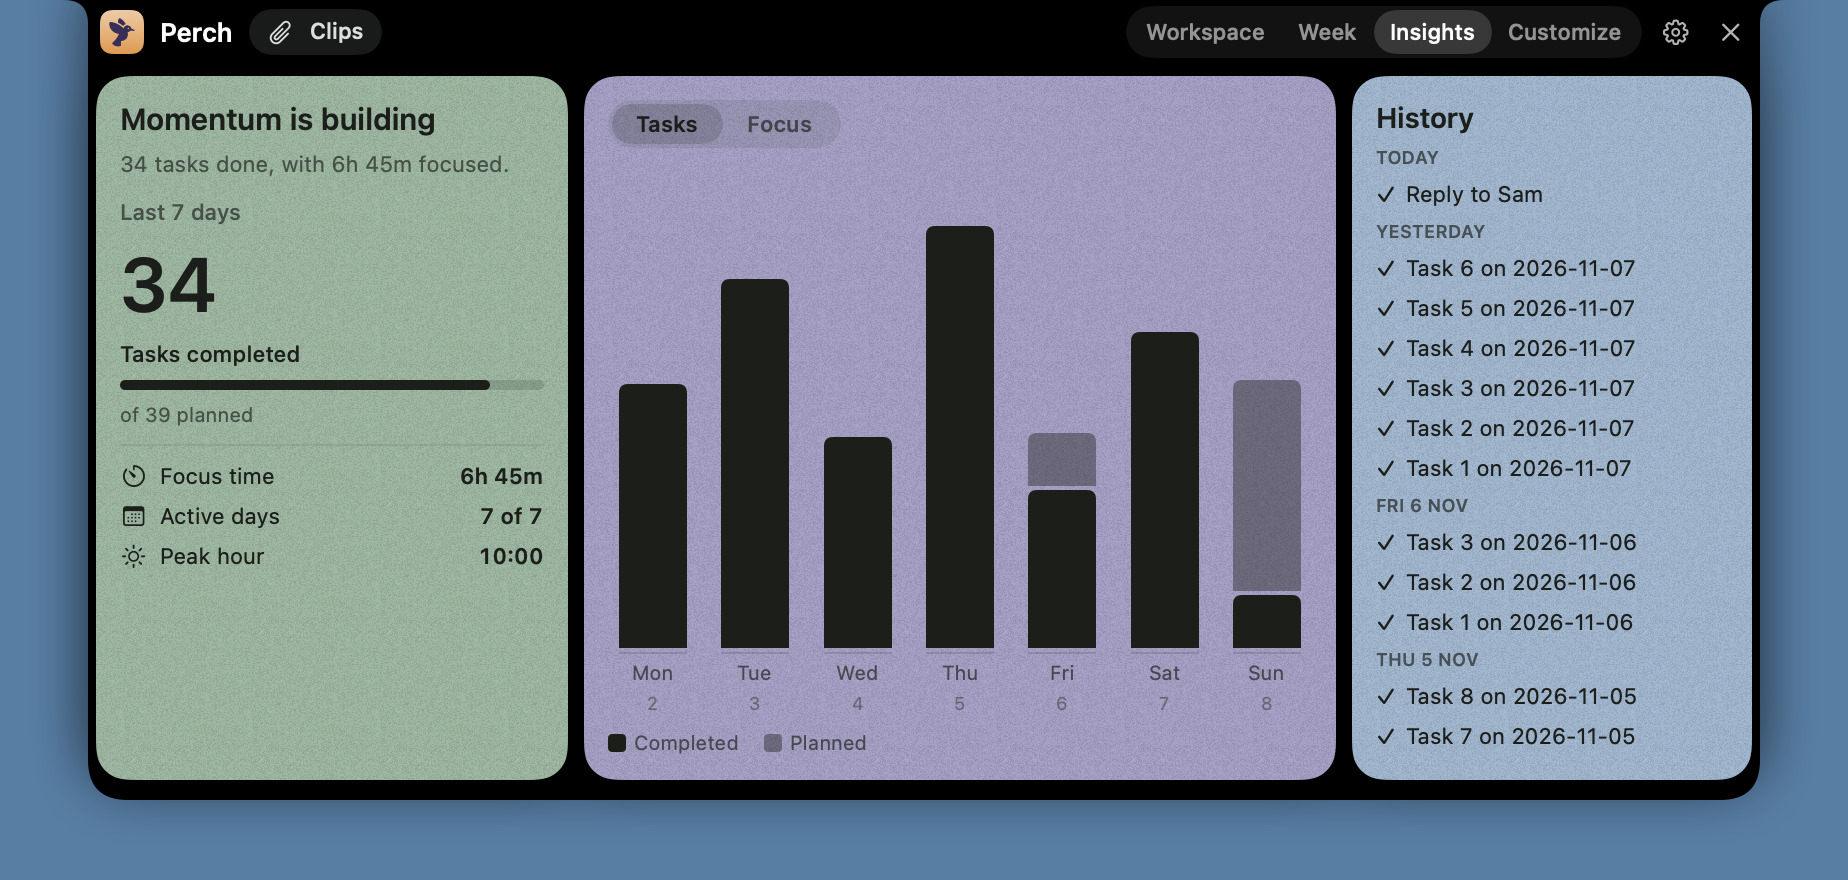
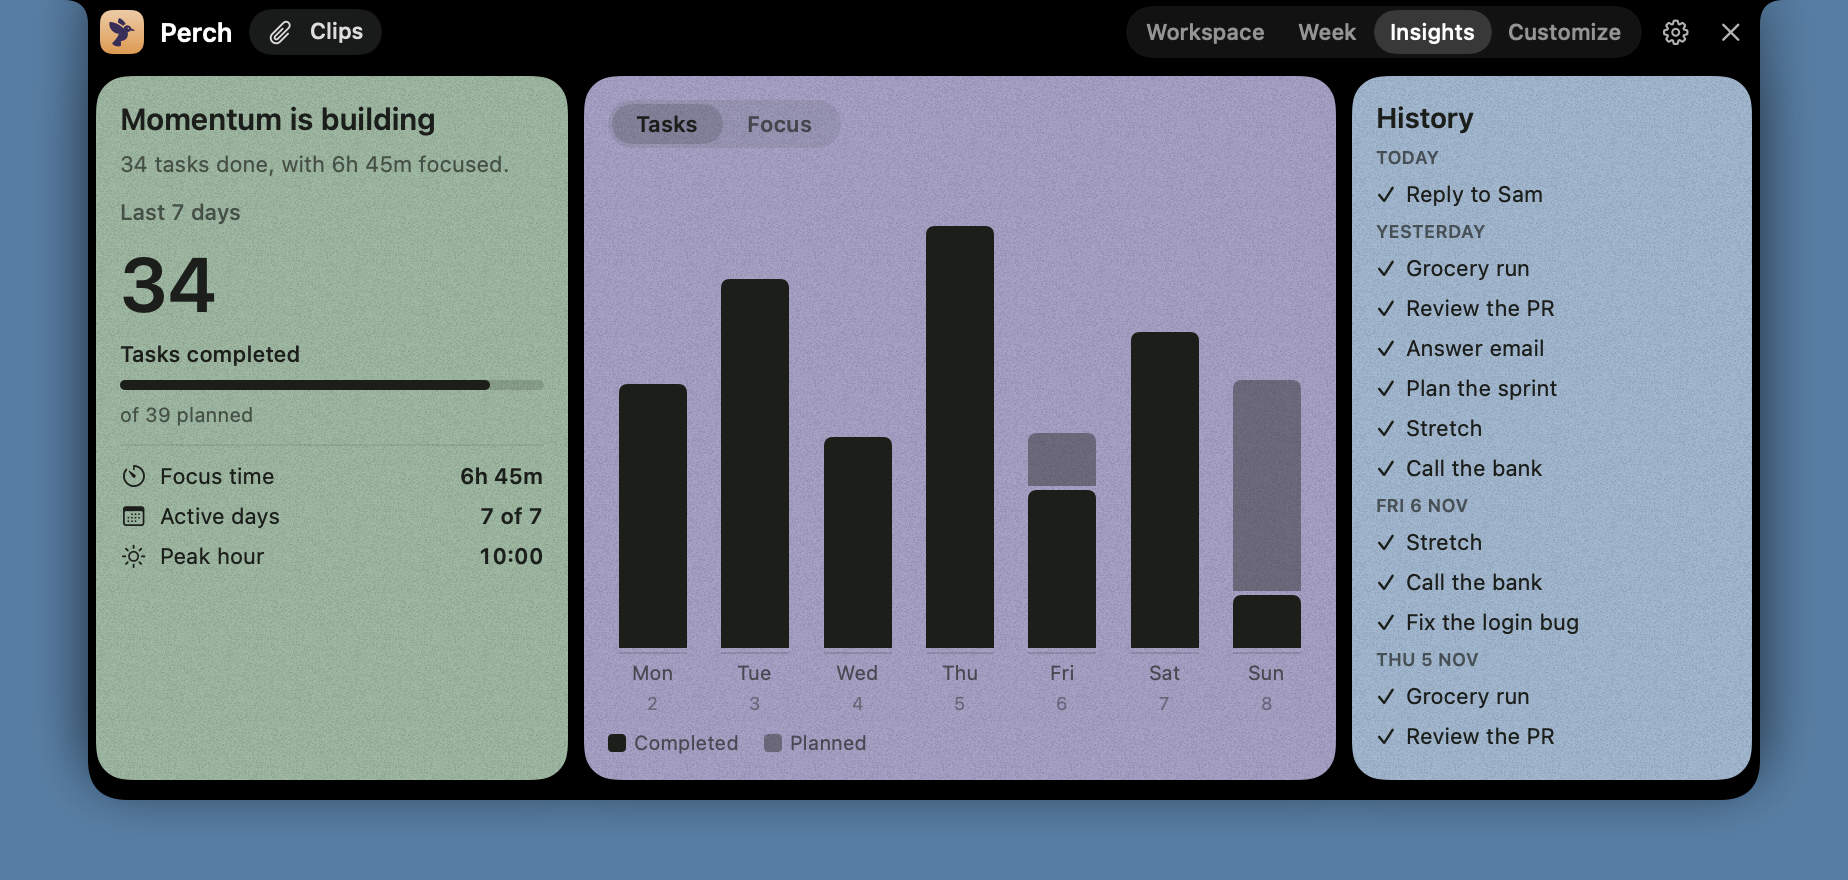
Correct the README's privacy and permission claims, and give the sample history real task names
The permission list was missing Notifications, and the privacy section now says when data
leaves the Mac (Reminders sync, an AI agent) and that Clips keeps the last 40 copied items
on disk. Option-N, the Xcode requirement and notchless Macs are described as the code
behaves. The Insights screenshot showed placeholder tasks.

diff --git a/Sources/Perch/Snapshot.swift b/Sources/Perch/Snapshot.swift
@@ -86,10 +86,11 @@ enum Snapshot {
 
         // Seven days of history so Insights has something to show.
         let counts = [(4, 5), (6, 7), (2, 4), (7, 8), (3, 3), (5, 6)]
+        let titles = ["Answer email", "Review the PR", "Grocery run", "Draft the blog post", "Fix the login bug", "Call the bank", "Stretch", "Plan the sprint"]
         for (offset, count) in counts.enumerated() {
             let day = Day.adding(offset - 6, to: today, calendar: cal)
             for i in 0..<count.1 {
-                let task = ws.add("Task \(i + 1) on \(day)", defaultDay: day)!
+                let task = ws.add(titles[(offset + i) % titles.count], defaultDay: day)!
                 if i < count.0 {
                     ws.update(task.id) { $0.completedAt = Day.at(day, hour: 10 + i, minute: 0, calendar: cal) }
                 } else {

diff --git a/README.md b/README.md
@@ -1,6 +1,6 @@
 # Perch
 
-Tasks, notes, focus timers, calendar events and recent clips, in your Mac's notch. Hover over the notch or press Option-N and it opens. Move away and it closes.
+Tasks, notes, focus timers, calendar events and recent clips, in your Mac's notch. Hover over the notch and it opens, and it closes when you move away. Option-N opens it from the keyboard, and then it stays until you press Option-N or Esc, or click elsewhere.
 
 ![Perch open under the notch, with today's tasks, a focus timer, the notepad and today's events](docs/images/workspace.png)
 
@@ -10,14 +10,14 @@ Tasks, notes, focus timers, calendar events and recent clips, in your Mac's notc
 - **The week at a glance.** The Inbox sits beside the next 14 days, and tasks drag between them.
 - **A notepad for each day.** Command-Return turns the current line into a task.
 - **Focus timers** for a task or on their own, counting down or up. While the panel is closed, the time stays beside the notch.
-- **Reminders that open in the notch,** with a snooze and a Done button.
+- **Reminders that open in the notch,** with a snooze and a Done button. They still ring through macOS notifications while Perch is quit.
 - **Today's calendar events**, read-only.
-- **Clips:** recent copied text, images and files, ready to drag into another app. Screenshots and screen recordings too, if you turn them on. Anything a password manager marks as private is never kept.
+- **Clips:** your recent copied text, images and files, ready to drag into another app. Screenshots and screen recordings too, if you turn them on. Anything a password manager marks as private is never kept.
 - **Insights:** what you finished, how long you focused and your peak hour.
-- **Two-way Apple Reminders sync**, off by default, so your tasks reach your iPhone and Apple Watch.
-- **AI agents can use it.** Claude Code, the Claude app and Cursor can add and update tasks, set reminders, read and write notes, run the focus timer and read your insights.
-- **Suggestions from Apple Intelligence.** On macOS 26 with Apple Intelligence on, a new task gets a priority and project from the on-device model.
-- **External monitors get a drawn notch,** and Macs without a notch open Perch below the menu bar.
+- **Two-way Apple Reminders sync**, off by default, so your tasks reach your iPhone and Apple Watch. It hasn't been tried against real Reminders yet.
+- **AI agents can use it.** Claude Code, the Claude app and Cursor can read, add, update, complete and delete tasks, set reminders, read and write notes, run the focus timer and read your insights.
+- **Apple Intelligence fills in the gaps.** On macOS 26 with Apple Intelligence on, a new task gets a priority and project you didn't set, from the on-device model.
+- **External monitors get a drawn notch,** which you can turn off. On a MacBook or iMac without a notch, push the pointer to the middle of the top edge and Perch opens below the menu bar.
 
 | Week | Insights |
 | --- | --- |
@@ -30,11 +30,11 @@ While the panel is closed, a reminder that's due and a running timer show up aro
 
 ## Status
 
-Perch is young. Everything above is built, but much of it has only run with sample data so far, not yet in daily use on a real Mac. [product.md](product.md) says what's confirmed working and what isn't, and the pinned [feature checklist](https://github.com/pitis/perch/issues/1) tracks the rest. There's no download yet, so you build it from source.
+Perch is young. Everything above is built, but much of it hasn't been tried in the real app yet. [product.md](product.md) says what's confirmed working and what isn't, and the pinned [feature checklist](https://github.com/pitis/perch/issues/1) tracks the rest. There's no download yet, so you build it from source.
 
 ## Build and install
 
-You need macOS 14 or later on Apple silicon, and Xcode 16 or later.
+You need macOS 14 or later on Apple silicon, and Xcode. Xcode 16 should be enough, though it's only been built with Xcode 27 so far, and the Apple Intelligence suggestions need Xcode 26 or later.
 
 ```sh
 git clone https://github.com/pitis/perch.git
@@ -42,26 +42,29 @@ cd perch
 ./scripts/build.sh --install
 ```
 
-That builds `Perch.app`, puts it in `/Applications` and launches it. It has no Dock icon: it lives in the notch and the menu bar.
+That builds `Perch.app`, puts it in `/Applications` and launches it. It has no Dock icon: it lives in the notch and the menu bar. It also takes over Option-N, so on a US keyboard that shortcut no longer types ñ.
 
-The build is signed with the first Apple Development certificate in your keychain. Without one it's signed ad hoc, and macOS asks for permissions again after every rebuild. Any Apple ID can make one in Xcode › Settings › Accounts.
+The build is signed with the first Apple Development certificate in your keychain. Without one it's signed ad hoc, and macOS asks for permissions again after every rebuild. Any Apple ID can make one in Xcode › Settings › Accounts › Manage Certificates.
 
 ## Privacy
 
-Perch makes no network requests. There's no account, no analytics and no update check. Your data stays in `~/Library/Application Support/Perch/`.
+Perch makes no network requests. There's no account, no analytics and no update check. Your data is kept in `~/Library/Application Support/Perch/`, and it only leaves your Mac if you turn on Reminders sync, which goes through Apple's Reminders and usually iCloud, or connect an AI agent, which sends what it reads to its own service.
+
+Clips keeps your last 40 copied items in that folder, as text and image files. Turn it off in Settings › Clips › Keep copied items.
 
 macOS asks for each permission when you first use the feature that needs it:
 
-- **Calendar**, to show today's events. Perch only reads them.
-- **Reminders**, for the Reminders sync. That goes through Apple's Reminders, so it travels the way your reminders already do, usually through iCloud.
-- **Microphone and Speech Recognition**, to add tasks and notes by voice. Speech becomes text on your Mac.
-- **Desktop folder**, only if you turn on screenshots in Clips.
+- **Notifications**, the first time a task gets a reminder, so it can still ring while Perch is quit.
+- **Calendar**, when you connect it, to show today's events. Perch only reads them.
+- **Reminders**, when you turn on Reminders sync.
+- **Microphone and Speech Recognition**, the first time you click the microphone. Speech becomes text on your Mac.
+- **The folder your screenshots go to**, usually the Desktop, only if you turn on screenshots in Clips. Clips also keeps track of files you copy, so copying one from Desktop, Documents or Downloads may make macOS ask about that folder too.
 
 AI agents reach Perch through a local socket that only your user account can open.
 
 ## Connecting an AI agent
 
-In Settings › AI agents, click Connect next to Claude Code, the Claude app or Cursor. Perch adds itself to that app's config file and keeps a backup of the old one.
+In Settings › AI agents, click Connect next to Claude Code, the Claude app or Cursor. Perch adds itself to that app's config file and keeps a backup of the old one. The Claude app and Cursor need a restart, and Settings offers to do it. Claude Code picks the change up the next time it starts.
 
 For another MCP client, add this to its config. It starts Perch if it isn't running.
 
@@ -78,11 +81,11 @@ For another MCP client, add this to its config. It starts Perch if it isn't runn
 
 ## How it's built
 
-SwiftUI inside an AppKit panel, with no dependencies. `Sources/PerchCore` holds the logic, doesn't import AppKit, and is what `swift test` covers. `Sources/Perch` is the app around it. `Perch --snapshot <folder>` renders every screen to PNG with sample data. [AGENTS.md](AGENTS.md) has the details and the rules the code relies on.
+SwiftUI inside an AppKit panel, with no dependencies. `Sources/PerchCore` holds the logic, doesn't import AppKit, and is what `swift test` covers. `Sources/Perch` is the app around it. `swift build && .build/debug/Perch --snapshot <folder>` renders every screen to PNG with sample data. [AGENTS.md](AGENTS.md) has the details and the rules the code relies on.
 
 ## Credits
 
-The feature set was inspired by [NotchOwl](https://www.notchowl.com/)'s public changelog. No code or assets come from it, and its app was never downloaded or inspected.
+The feature set was inspired by [NotchOwl](https://www.notchowl.com/)'s public site and changelog. No code or assets come from it, and its app was never downloaded or inspected.
 
 ## License
 
